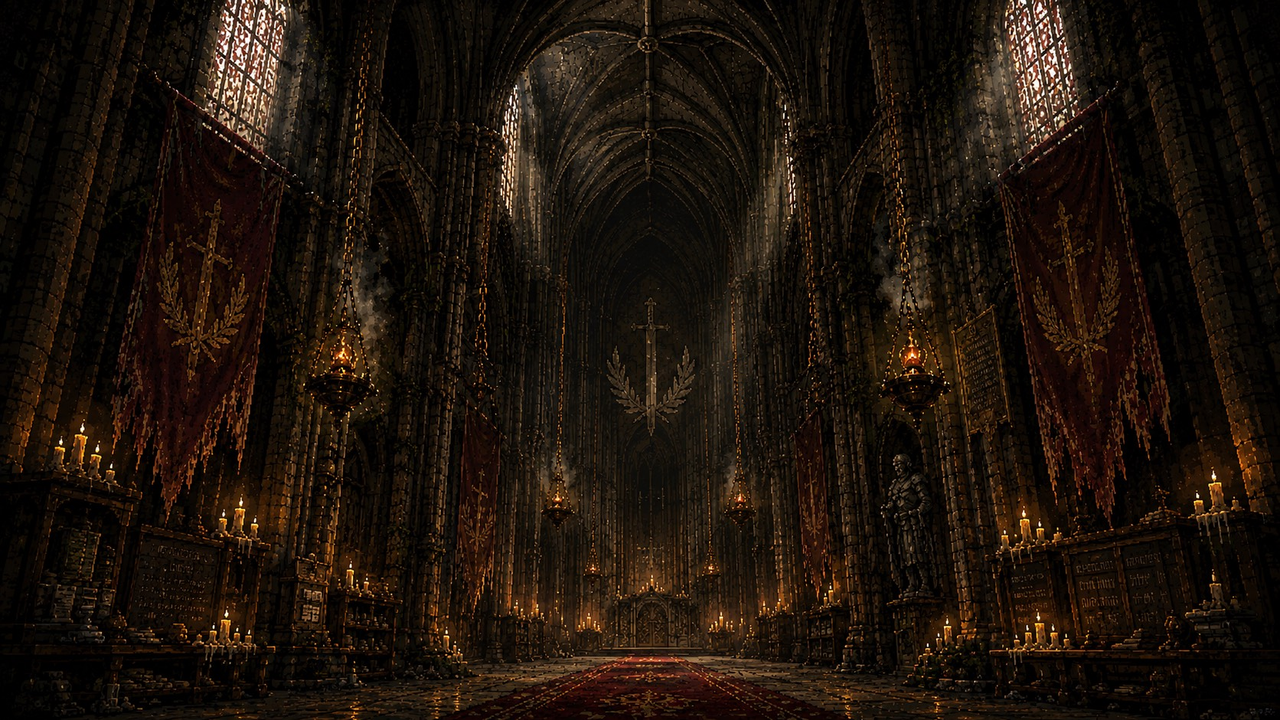
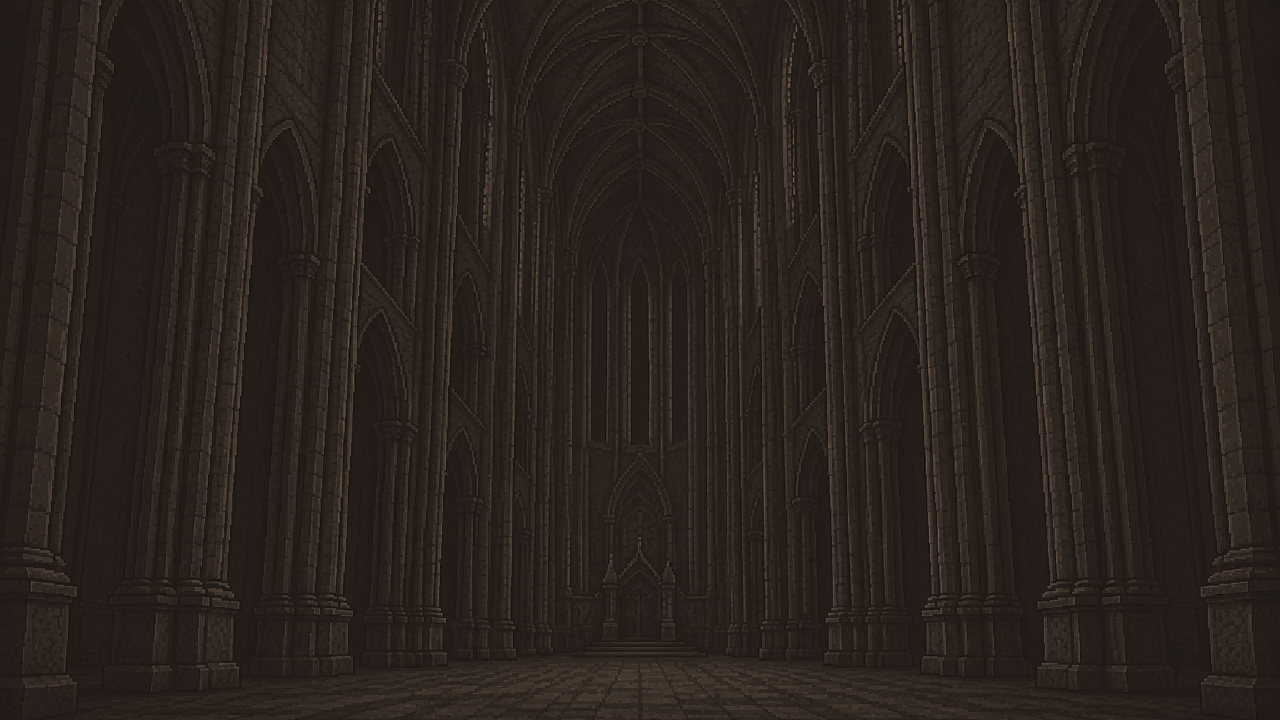
feat(title): a pixel-art base replaces the painting; the props animate again (TD-076)
The author supplied a second image and asked whether it could be used and
whether its resolution worked. Both answered by measurement.

It beats the painting on three counts: it is ARCHITECTURE ONLY (so banners,
censers, chandelier, racks and braziers are drawn and animated again —
PROPS_IN_PLATE back to false, where the painting had frozen them), it is
genuinely pixel art (at 4x the arch curves step one pixel at a time, so no
down-registering is needed), and no UI is baked in.

Resolution: 1536x1024 is 3:2, so 160px of height is cropped — 110 off the
top where the vault has headroom, 50 off the bottom where the floor and the
altar's steps are load-bearing. The upscale test found no factor (all ratios
~1.00), so 1536 is the real pixel grid rather than an already-degraded one.
1536 -> 1280 is a 1.2x non-integer downscale, resampled ONCE at build rather
than unevenly at runtime every frame; at 720p the result is one art pixel per
device pixel.

Graded warm along the navestone ramp with highlights running into gold: the
source is greyscale and Testament is not.

Props and fires re-seated onto this architecture's piers, aisles and altar.

Known and not fixed: the props are authored at the 640 grain and are
therefore chunkier than the hall they stand in. Fixing that means
re-authoring them at twice the detail, not merely scaling them.

diff --git a/client/assets/ui/gen_title_matte.py b/client/assets/ui/gen_title_matte.py
@@ -10,10 +10,11 @@ character is irregularity no generator reaches. So the art IS the reference, pro
 
 Two treatments, because they trade the same thing in opposite directions:
 
-    --fidelity   1280x720, LANCZOS from the source. Drawn 1:1 on device pixels at a 720p window,
-                 so it displays with NO filtering and reads as the painting itself.
+    (default)    the pixel-art base: crop to 16:9, scale to 1280x720, grade warm. Architecture
+                 only, so the banners, censers and vessels animate over it.
+    --painting   the earlier matte painting at 1280x720. Props are baked into it and frozen.
     --register   640x360, on the Ash & Ember palette: BOX downsample -> median -> quantise ->
-                 two MODE passes. The board's grain, at the cost of the painting's fine detail.
+                 two MODE passes. The board's grain, at the cost of the source's fine detail.
 
 The mode passes are the part that matters in `--register`: they keep boundaries hard while
 flattening interiors, which is what a pixel artist's flat regions are. Measured on this image, they
@@ -29,16 +30,51 @@ from PIL import Image, ImageFilter
 
 import ashember as A
 
-SRC = os.path.join(os.path.dirname(os.path.abspath(__file__)),
-                   "..", "..", "..", "art", "src", "title", "hall_plate_src.jpeg")
+_ART = os.path.join(os.path.dirname(os.path.abspath(__file__)), "..", "..", "..",
+                    "art", "src", "title")
+# The CURRENT base: the author's pixel-art hall. Architecture only — no banners, censers, candles
+# or braziers — which is why the animated layers are switched back on for it. Native at 1536x1024
+# (measured: no upscale factor detected), 3:2, greyscale.
+SRC_BASE = os.path.join(_ART, "hall_base_src.jpeg")
+# The painting it replaces. Kept for the record and for `--painting`.
+SRC = os.path.join(_ART, "hall_plate_src.jpeg")
 
 
-def _load_16x9():
-    im = Image.open(SRC).convert("RGB")
+def _load_16x9(path=None):
+    im = Image.open(path or SRC).convert("RGB")
     tw = min(im.width, int(round(im.height * 16.0 / 9.0)))
     th = min(im.height, int(round(im.width * 9.0 / 16.0)))
     return im.crop(((im.width - tw) // 2, (im.height - th) // 2,
                     (im.width + tw) // 2, (im.height + th) // 2))
+
+
+# The warm grade. The base is greyscale and Testament is not, so luminance is mapped along the
+# navestone ramp with the highlights running up into gold — candlelight then has somewhere to go
+# when the engine's pools land on it.
+GRADE = A.RAMP["navestone"] + [A.RAMP["gold"][2]]
+
+
+def base():
+    """The pixel-art hall: crop 3:2 -> 16:9, scale to 1280x720, grade warm.
+
+    The crop is biased: 110px off the top, 50px off the bottom. The vault has headroom up there,
+    while the floor and the altar's steps are load-bearing composition and must not be cut.
+
+    1536 -> 1280 is a 1.2x downscale. Non-integer, so it is resampled ONCE here rather than
+    unevenly at runtime every frame; at a 720p window the result is one art pixel per device pixel.
+    """
+    im = _load_16x9(SRC_BASE)
+    im = Image.open(SRC_BASE).convert("RGB").crop((0, 110, 1536, 974)).resize((1280, 720), Image.BOX)
+    px = im.load()
+
+    def pixel(x, y):
+        r, g, b = px[x, y]
+        t = ((0.299 * r + 0.587 * g + 0.114 * b) / 255.0) ** 1.15      # hold the darks down
+        f = t * (len(GRADE) - 1)
+        i = min(len(GRADE) - 2, int(f))
+        c = A.lerp_rgb(GRADE[i], GRADE[i + 1], f - i)
+        return (int(c[0]), int(c[1]), int(c[2]), 255)
+    return 1280, 720, pixel
 
 
 def fidelity():
@@ -77,7 +113,13 @@ def register():
 
 if __name__ == "__main__":
     os.makedirs(os.path.join(os.path.dirname(os.path.abspath(__file__)), "title"), exist_ok=True)
-    w, h, px = register() if "--register" in sys.argv[1:] else fidelity()
+    argv = sys.argv[1:]
+    if "--register" in argv:
+        w, h, px = register()
+    elif "--painting" in argv:
+        w, h, px = fidelity()
+    else:
+        w, h, px = base()
     # A LITERAL relative path, run from client/assets/ui/ (canon S5b).
     A.write_png("title/hall_plate.png", w, h, px)
     print("gen_title_matte OK — %dx%d" % (w, h))

diff --git a/docs/DECISION_LOG.md b/docs/DECISION_LOG.md
@@ -2715,3 +2715,32 @@ own thing, which is a normal choice and no longer an accidental one.
 **Kept, not deleted.** `hall_geometry.py` and its self-tests stay in the tree. The flat-plane defect
 was real, the curved vault and cylindrical piers work, and that geometry may still earn its place for
 in-game Collegium screens where a generated environment is worth more than a painted one.
+
+## 2026-07-25 — TD-076 addendum: a pixel-art base replaces the painting, and the props come back
+
+**Why.** The author supplied a second image and asked two questions: can it be used, and is its
+resolution workable. Both measured rather than eyeballed.
+
+**Can it be used — yes, and it beats the painting on three counts.** It is **architecture only**: no
+banners, censers, candle stands or braziers in the image, so every layer that animates is drawn
+again (`PROPS_IN_PLATE` back to `false`). The painting had its furniture baked in and frozen, which
+cost the sway, the pendulum and the drift. It is also **genuinely pixel art** — at 4× the arch curves
+step one pixel at a time, hard-edged — so it lives in Testament's language with no down-registering,
+the step that destroyed an earlier attempt. And no UI is baked in, so nothing needs inpainting out.
+
+**Is the resolution workable — yes, with one crop and one scale.**
+
+| | measurement | consequence |
+|---|---|---|
+| aspect | 1536×1024 = **3:2** | 160px of height must go. Cropped 110 off the top, 50 off the bottom: the vault has headroom, the floor and the altar's steps are load-bearing |
+| native grain | **native at 1536** — the upscale test found no factor (all ratios ≈1.00) | nothing is already degraded; this is the real pixel grid |
+| display fit | a 720p window wants **1280×720** | 1536 → 1280 is a **1.2× non-integer** downscale, so it is resampled ONCE at build rather than unevenly at runtime every frame |
+
+**Also graded.** The source is greyscale and Testament is not, so luminance is mapped along the
+navestone ramp with the highlights running into gold — candlelight then has somewhere to go when the
+engine's pools land on it.
+
+**Honest remainder.** At 1280×720 the hall's grain stays finer than the Contract Board's, and the
+generated props (authored at the 640 grain) are consequently *chunkier* than the hall they stand in.
+That mismatch is visible if looked for. Fixing it means re-authoring the props at twice the detail —
+not merely scaling them — which is real work and is not done.

diff --git a/specs/title-scene/asset-manifest.md b/specs/title-scene/asset-manifest.md
@@ -1,6 +1,16 @@
 # Title Scene — Asset Manifest (TD-073 → TD-075 → **TD-076, current**)
 
-> **CURRENT: the hall is the author's painting.** After four procedural rebuilds the author ruled:
+> **CURRENT: the hall is the author's PIXEL-ART base** (`art/src/title/hall_base_src.jpeg`), which
+> supersedes the painting below. Measured: native at 1536×1024 (no upscale factor detected), 3:2,
+> greyscale. Processed by `gen_title_matte.py` — cropped to 16:9 (110px off the top, 50 off the
+> bottom: the vault has headroom, the floor and altar steps do not), scaled once to 1280×720, and
+> graded warm along the navestone ramp because Testament is not grey.
+>
+> **It is architecture only, and that is why it wins.** No banners, censers, candle stands or
+> braziers in the image, so every one of those layers ANIMATES again — `PROPS_IN_PLATE = false`.
+> The painting had its furniture frozen into it.
+>
+> *(superseded)* **the hall is the author's painting.** After four procedural rebuilds the author ruled:
 > *"disregard the constraints and make the great hall almost 1:1 to the reference image."* The only
 > thing 1:1 with a painting is that painting, so `gen_title_matte.py` processes it into the client at
 > **1280×720**, drawn 1:1 on device pixels at a 720p window through NEAREST — no filtering anywhere.

diff --git a/docs/technical/asset-map.md b/docs/technical/asset-map.md
@@ -216,4 +216,4 @@
 - `client/scripts/board/wax_seal.gd:21` — `load/preload SEAL_TEX`
 - `client/scripts/main.gd:1505` — `load/preload path`
 - `client/scripts/main.gd:1509` — `load/preload normal_path`
-- `client/scripts/ui/title_scene.gd:105` — `load/preload p`
+- `client/scripts/ui/title_scene.gd:108` — `load/preload p`
